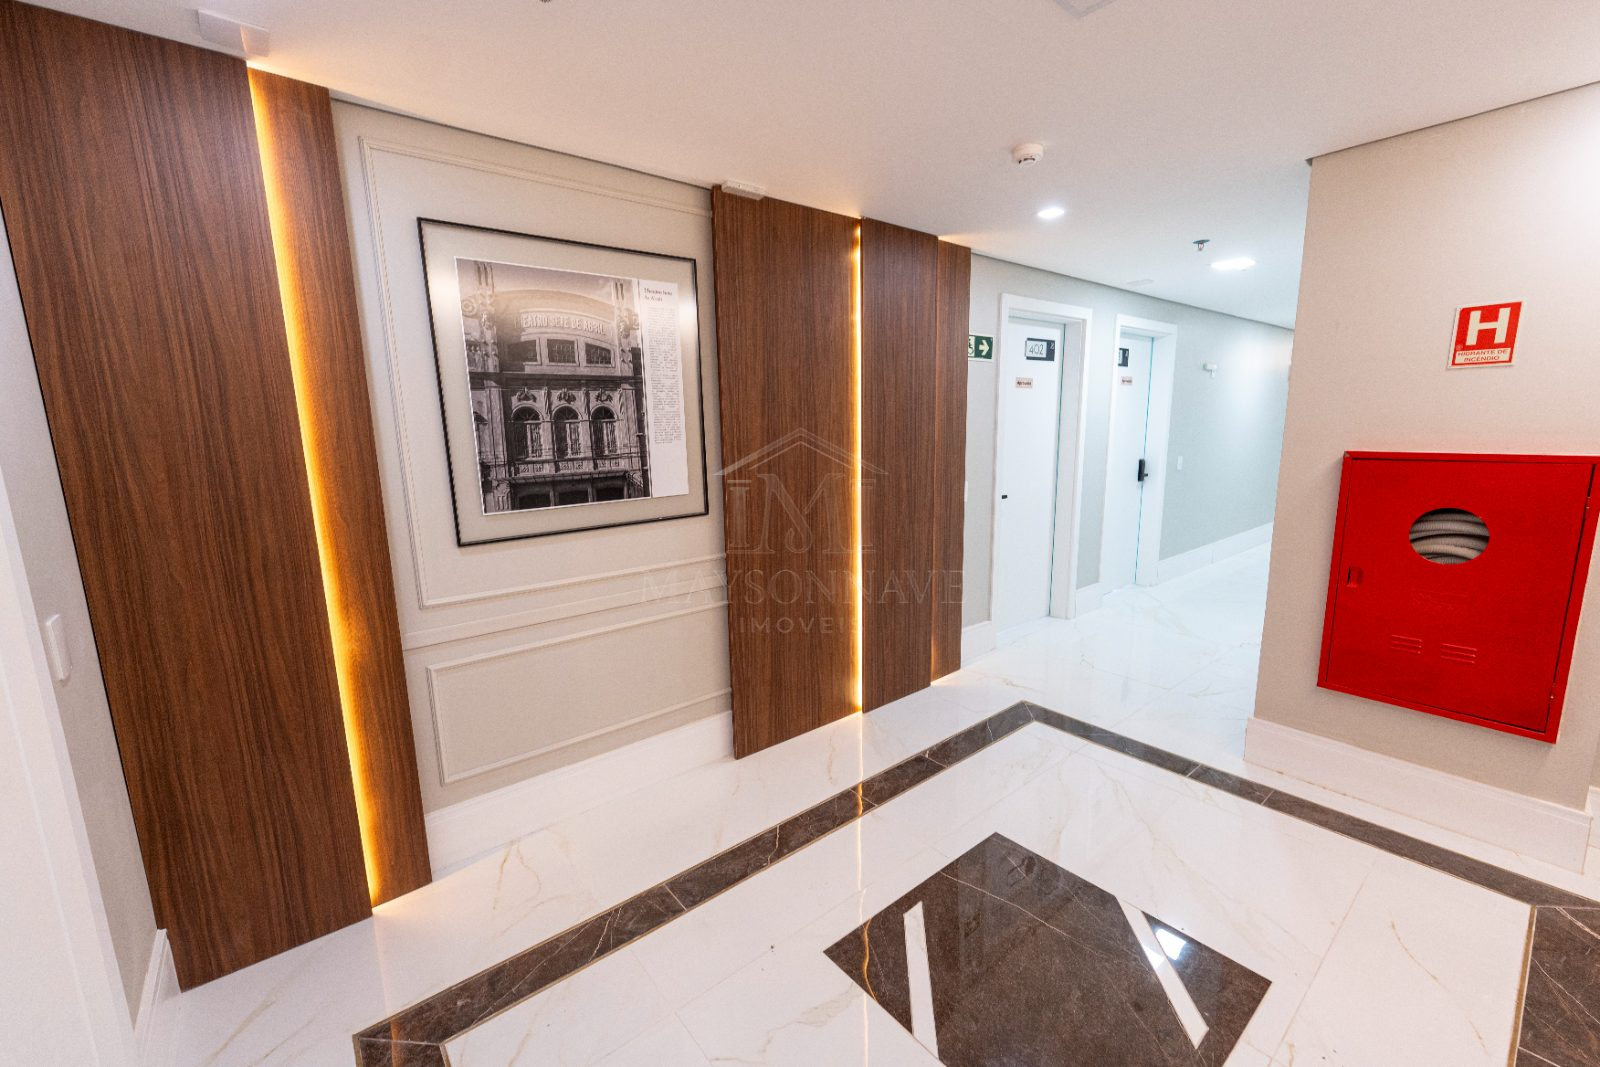
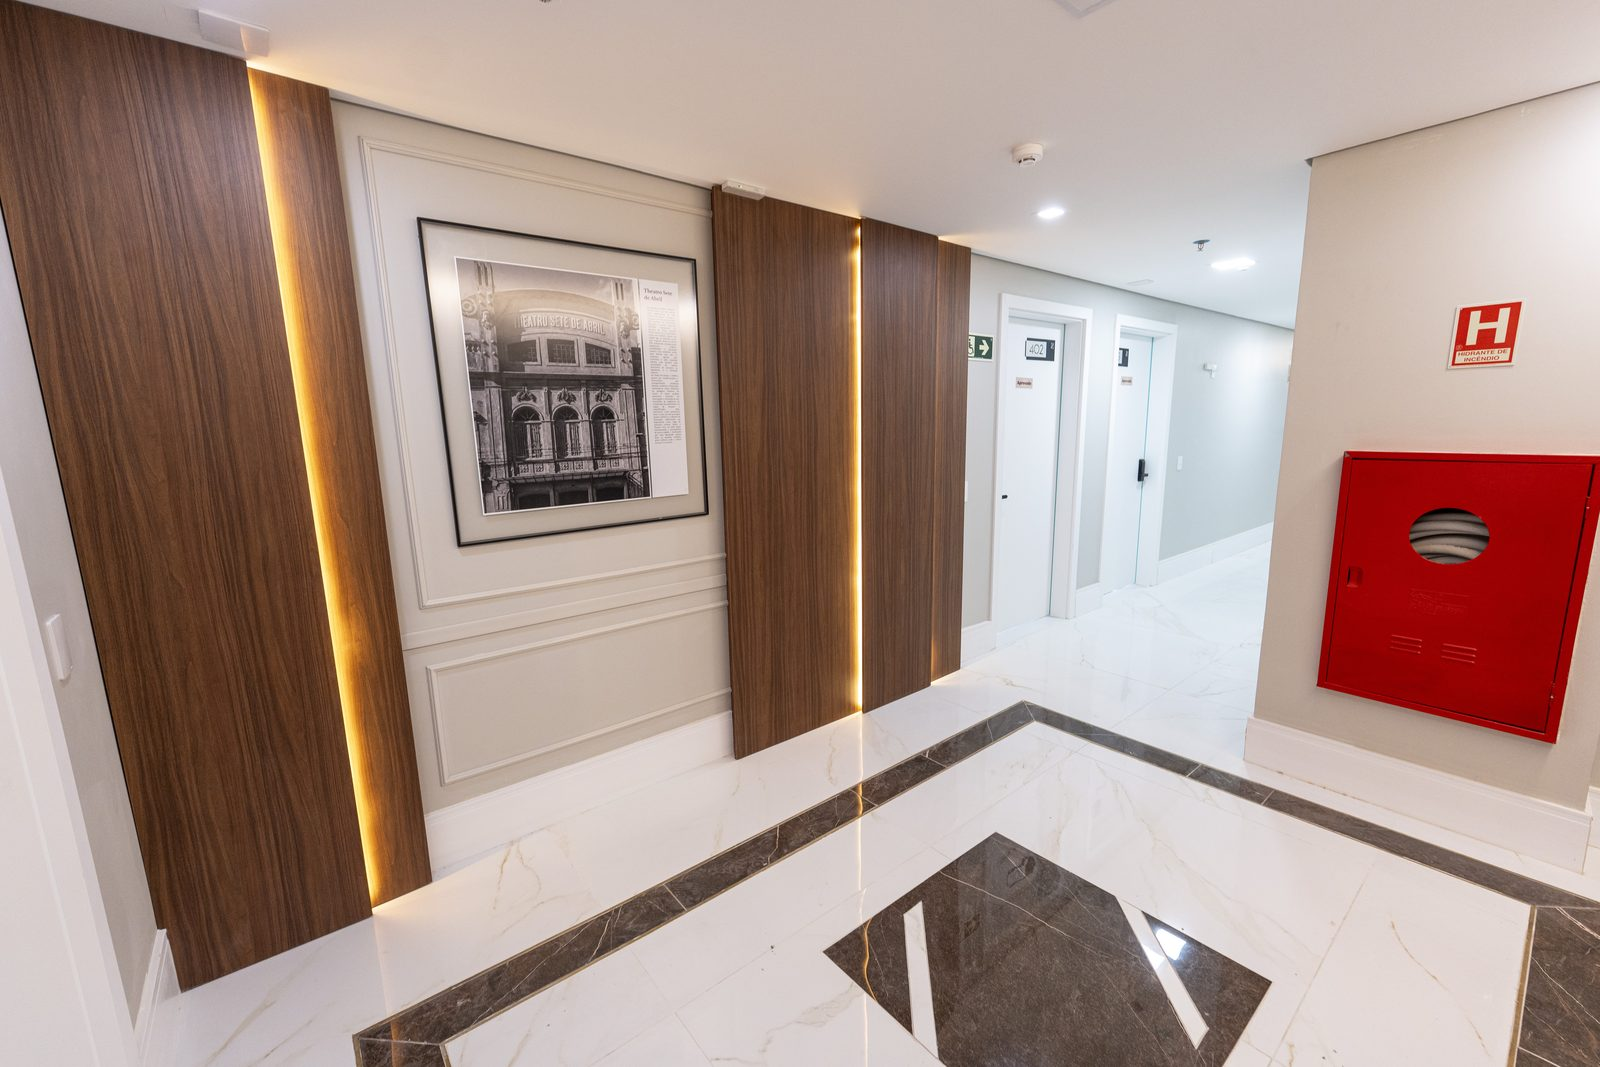
Fotos do Office Zabaleta sem marca d'água, e carrossel com fundo borrado
As 11 fotos do prédio voltam às originais da construtora, sem carimbo.
O fundo borrado da moldura passa a acompanhar a foto à mostra, e a
capa do condomínio vai pra 16/9 como a ficha de imóvel.

diff --git a/blog/index.html b/blog/index.html
@@ -155,9 +155,14 @@ document.querySelectorAll('.cartao-foto').forEach(moldura => {
   const fotos = [img.getAttribute('src')].concat(img.dataset.fotos.split('|'));
   const pontos = moldura.querySelectorAll('.cartao-pontos i');
   let i = 0;
+  // O fundo borrado que preenche a sobra precisa acompanhar a foto que está
+  // à mostra. Preso na primeira, virar o carrossel deixava a moldura com o
+  // borrão de uma foto e a foto de outra na frente.
+  const temFundo = getComputedStyle(moldura).getPropertyValue('--fundo').trim() !== '';
   const ir = passo => {
     i = (i + passo + fotos.length) % fotos.length;
     img.src = fotos[i];
+    if (temFundo) moldura.style.setProperty('--fundo', 'url("' + fotos[i] + '")');
     moldura.dataset.indiceAtual = i;
     pontos.forEach((p, k) => p.classList.toggle('on', k === i));
   };

diff --git a/blog/o-que-ja-esta-confirmado-no-pre-lancamento-da-zabaleta-na-dom-joaquim/index.html b/blog/o-que-ja-esta-confirmado-no-pre-lancamento-da-zabaleta-na-dom-joaquim/index.html
@@ -151,9 +151,14 @@ document.querySelectorAll('.cartao-foto').forEach(moldura => {
   const fotos = [img.getAttribute('src')].concat(img.dataset.fotos.split('|'));
   const pontos = moldura.querySelectorAll('.cartao-pontos i');
   let i = 0;
+  // O fundo borrado que preenche a sobra precisa acompanhar a foto que está
+  // à mostra. Preso na primeira, virar o carrossel deixava a moldura com o
+  // borrão de uma foto e a foto de outra na frente.
+  const temFundo = getComputedStyle(moldura).getPropertyValue('--fundo').trim() !== '';
   const ir = passo => {
     i = (i + passo + fotos.length) % fotos.length;
     img.src = fotos[i];
+    if (temFundo) moldura.style.setProperty('--fundo', 'url("' + fotos[i] + '")');
     moldura.dataset.indiceAtual = i;
     pontos.forEach((p, k) => p.classList.toggle('on', k === i));
   };

diff --git a/condominio/acqua-parque-residence/index.html b/condominio/acqua-parque-residence/index.html
@@ -228,9 +228,14 @@ document.querySelectorAll('.cartao-foto').forEach(moldura => {
   const fotos = [img.getAttribute('src')].concat(img.dataset.fotos.split('|'));
   const pontos = moldura.querySelectorAll('.cartao-pontos i');
   let i = 0;
+  // O fundo borrado que preenche a sobra precisa acompanhar a foto que está
+  // à mostra. Preso na primeira, virar o carrossel deixava a moldura com o
+  // borrão de uma foto e a foto de outra na frente.
+  const temFundo = getComputedStyle(moldura).getPropertyValue('--fundo').trim() !== '';
   const ir = passo => {
     i = (i + passo + fotos.length) % fotos.length;
     img.src = fotos[i];
+    if (temFundo) moldura.style.setProperty('--fundo', 'url("' + fotos[i] + '")');
     moldura.dataset.indiceAtual = i;
     pontos.forEach((p, k) => p.classList.toggle('on', k === i));
   };

diff --git a/condominio/alphaville-pelotas/index.html b/condominio/alphaville-pelotas/index.html
@@ -192,9 +192,14 @@ document.querySelectorAll('.cartao-foto').forEach(moldura => {
   const fotos = [img.getAttribute('src')].concat(img.dataset.fotos.split('|'));
   const pontos = moldura.querySelectorAll('.cartao-pontos i');
   let i = 0;
+  // O fundo borrado que preenche a sobra precisa acompanhar a foto que está
+  // à mostra. Preso na primeira, virar o carrossel deixava a moldura com o
+  // borrão de uma foto e a foto de outra na frente.
+  const temFundo = getComputedStyle(moldura).getPropertyValue('--fundo').trim() !== '';
   const ir = passo => {
     i = (i + passo + fotos.length) % fotos.length;
     img.src = fotos[i];
+    if (temFundo) moldura.style.setProperty('--fundo', 'url("' + fotos[i] + '")');
     moldura.dataset.indiceAtual = i;
     pontos.forEach((p, k) => p.classList.toggle('on', k === i));
   };

diff --git a/condominio/lagos-de-sao-goncalo/index.html b/condominio/lagos-de-sao-goncalo/index.html
@@ -174,9 +174,14 @@ document.querySelectorAll('.cartao-foto').forEach(moldura => {
   const fotos = [img.getAttribute('src')].concat(img.dataset.fotos.split('|'));
   const pontos = moldura.querySelectorAll('.cartao-pontos i');
   let i = 0;
+  // O fundo borrado que preenche a sobra precisa acompanhar a foto que está
+  // à mostra. Preso na primeira, virar o carrossel deixava a moldura com o
+  // borrão de uma foto e a foto de outra na frente.
+  const temFundo = getComputedStyle(moldura).getPropertyValue('--fundo').trim() !== '';
   const ir = passo => {
     i = (i + passo + fotos.length) % fotos.length;
     img.src = fotos[i];
+    if (temFundo) moldura.style.setProperty('--fundo', 'url("' + fotos[i] + '")');
     moldura.dataset.indiceAtual = i;
     pontos.forEach((p, k) => p.classList.toggle('on', k === i));
   };

diff --git a/condominio/office-zabaleta/index.html b/condominio/office-zabaleta/index.html
@@ -152,9 +152,14 @@ document.querySelectorAll('.cartao-foto').forEach(moldura => {
   const fotos = [img.getAttribute('src')].concat(img.dataset.fotos.split('|'));
   const pontos = moldura.querySelectorAll('.cartao-pontos i');
   let i = 0;
+  // O fundo borrado que preenche a sobra precisa acompanhar a foto que está
+  // à mostra. Preso na primeira, virar o carrossel deixava a moldura com o
+  // borrão de uma foto e a foto de outra na frente.
+  const temFundo = getComputedStyle(moldura).getPropertyValue('--fundo').trim() !== '';
   const ir = passo => {
     i = (i + passo + fotos.length) % fotos.length;
     img.src = fotos[i];
+    if (temFundo) moldura.style.setProperty('--fundo', 'url("' + fotos[i] + '")');
     moldura.dataset.indiceAtual = i;
     pontos.forEach((p, k) => p.classList.toggle('on', k === i));
   };

diff --git a/condominio/smart-connection/index.html b/condominio/smart-connection/index.html
@@ -192,9 +192,14 @@ document.querySelectorAll('.cartao-foto').forEach(moldura => {
   const fotos = [img.getAttribute('src')].concat(img.dataset.fotos.split('|'));
   const pontos = moldura.querySelectorAll('.cartao-pontos i');
   let i = 0;
+  // O fundo borrado que preenche a sobra precisa acompanhar a foto que está
+  // à mostra. Preso na primeira, virar o carrossel deixava a moldura com o
+  // borrão de uma foto e a foto de outra na frente.
+  const temFundo = getComputedStyle(moldura).getPropertyValue('--fundo').trim() !== '';
   const ir = passo => {
     i = (i + passo + fotos.length) % fotos.length;
     img.src = fotos[i];
+    if (temFundo) moldura.style.setProperty('--fundo', 'url("' + fotos[i] + '")');
     moldura.dataset.indiceAtual = i;
     pontos.forEach((p, k) => p.classList.toggle('on', k === i));
   };

diff --git a/condominio/veredas/index.html b/condominio/veredas/index.html
@@ -174,9 +174,14 @@ document.querySelectorAll('.cartao-foto').forEach(moldura => {
   const fotos = [img.getAttribute('src')].concat(img.dataset.fotos.split('|'));
   const pontos = moldura.querySelectorAll('.cartao-pontos i');
   let i = 0;
+  // O fundo borrado que preenche a sobra precisa acompanhar a foto que está
+  // à mostra. Preso na primeira, virar o carrossel deixava a moldura com o
+  // borrão de uma foto e a foto de outra na frente.
+  const temFundo = getComputedStyle(moldura).getPropertyValue('--fundo').trim() !== '';
   const ir = passo => {
     i = (i + passo + fotos.length) % fotos.length;
     img.src = fotos[i];
+    if (temFundo) moldura.style.setProperty('--fundo', 'url("' + fotos[i] + '")');
     moldura.dataset.indiceAtual = i;
     pontos.forEach((p, k) => p.classList.toggle('on', k === i));
   };

diff --git a/favoritos.html b/favoritos.html
@@ -527,9 +527,14 @@ document.querySelectorAll('.cartao-foto').forEach(moldura => {
   const fotos = [img.getAttribute('src')].concat(img.dataset.fotos.split('|'));
   const pontos = moldura.querySelectorAll('.cartao-pontos i');
   let i = 0;
+  // O fundo borrado que preenche a sobra precisa acompanhar a foto que está
+  // à mostra. Preso na primeira, virar o carrossel deixava a moldura com o
+  // borrão de uma foto e a foto de outra na frente.
+  const temFundo = getComputedStyle(moldura).getPropertyValue('--fundo').trim() !== '';
   const ir = passo => {
     i = (i + passo + fotos.length) % fotos.length;
     img.src = fotos[i];
+    if (temFundo) moldura.style.setProperty('--fundo', 'url("' + fotos[i] + '")');
     moldura.dataset.indiceAtual = i;
     pontos.forEach((p, k) => p.classList.toggle('on', k === i));
   };

diff --git a/imovel/apartamento-a-venda-no-acqua-parque-residence-pelotas-rs-mi-107/index.html b/imovel/apartamento-a-venda-no-acqua-parque-residence-pelotas-rs-mi-107/index.html
@@ -364,9 +364,14 @@ document.querySelectorAll('.cartao-foto').forEach(moldura => {
   const fotos = [img.getAttribute('src')].concat(img.dataset.fotos.split('|'));
   const pontos = moldura.querySelectorAll('.cartao-pontos i');
   let i = 0;
+  // O fundo borrado que preenche a sobra precisa acompanhar a foto que está
+  // à mostra. Preso na primeira, virar o carrossel deixava a moldura com o
+  // borrão de uma foto e a foto de outra na frente.
+  const temFundo = getComputedStyle(moldura).getPropertyValue('--fundo').trim() !== '';
   const ir = passo => {
     i = (i + passo + fotos.length) % fotos.length;
     img.src = fotos[i];
+    if (temFundo) moldura.style.setProperty('--fundo', 'url("' + fotos[i] + '")');
     moldura.dataset.indiceAtual = i;
     pontos.forEach((p, k) => p.classList.toggle('on', k === i));
   };

diff --git a/imovel/apartamento-a-venda-no-acqua-parque-residence-pelotas-rs-mi-111/index.html b/imovel/apartamento-a-venda-no-acqua-parque-residence-pelotas-rs-mi-111/index.html
@@ -364,9 +364,14 @@ document.querySelectorAll('.cartao-foto').forEach(moldura => {
   const fotos = [img.getAttribute('src')].concat(img.dataset.fotos.split('|'));
   const pontos = moldura.querySelectorAll('.cartao-pontos i');
   let i = 0;
+  // O fundo borrado que preenche a sobra precisa acompanhar a foto que está
+  // à mostra. Preso na primeira, virar o carrossel deixava a moldura com o
+  // borrão de uma foto e a foto de outra na frente.
+  const temFundo = getComputedStyle(moldura).getPropertyValue('--fundo').trim() !== '';
   const ir = passo => {
     i = (i + passo + fotos.length) % fotos.length;
     img.src = fotos[i];
+    if (temFundo) moldura.style.setProperty('--fundo', 'url("' + fotos[i] + '")');
     moldura.dataset.indiceAtual = i;
     pontos.forEach((p, k) => p.classList.toggle('on', k === i));
   };

diff --git a/imovel/apartamento-a-venda-no-centro-pelotas-rs-mi-113/index.html b/imovel/apartamento-a-venda-no-centro-pelotas-rs-mi-113/index.html
@@ -364,9 +364,14 @@ document.querySelectorAll('.cartao-foto').forEach(moldura => {
   const fotos = [img.getAttribute('src')].concat(img.dataset.fotos.split('|'));
   const pontos = moldura.querySelectorAll('.cartao-pontos i');
   let i = 0;
+  // O fundo borrado que preenche a sobra precisa acompanhar a foto que está
+  // à mostra. Preso na primeira, virar o carrossel deixava a moldura com o
+  // borrão de uma foto e a foto de outra na frente.
+  const temFundo = getComputedStyle(moldura).getPropertyValue('--fundo').trim() !== '';
   const ir = passo => {
     i = (i + passo + fotos.length) % fotos.length;
     img.src = fotos[i];
+    if (temFundo) moldura.style.setProperty('--fundo', 'url("' + fotos[i] + '")');
     moldura.dataset.indiceAtual = i;
     pontos.forEach((p, k) => p.classList.toggle('on', k === i));
   };
